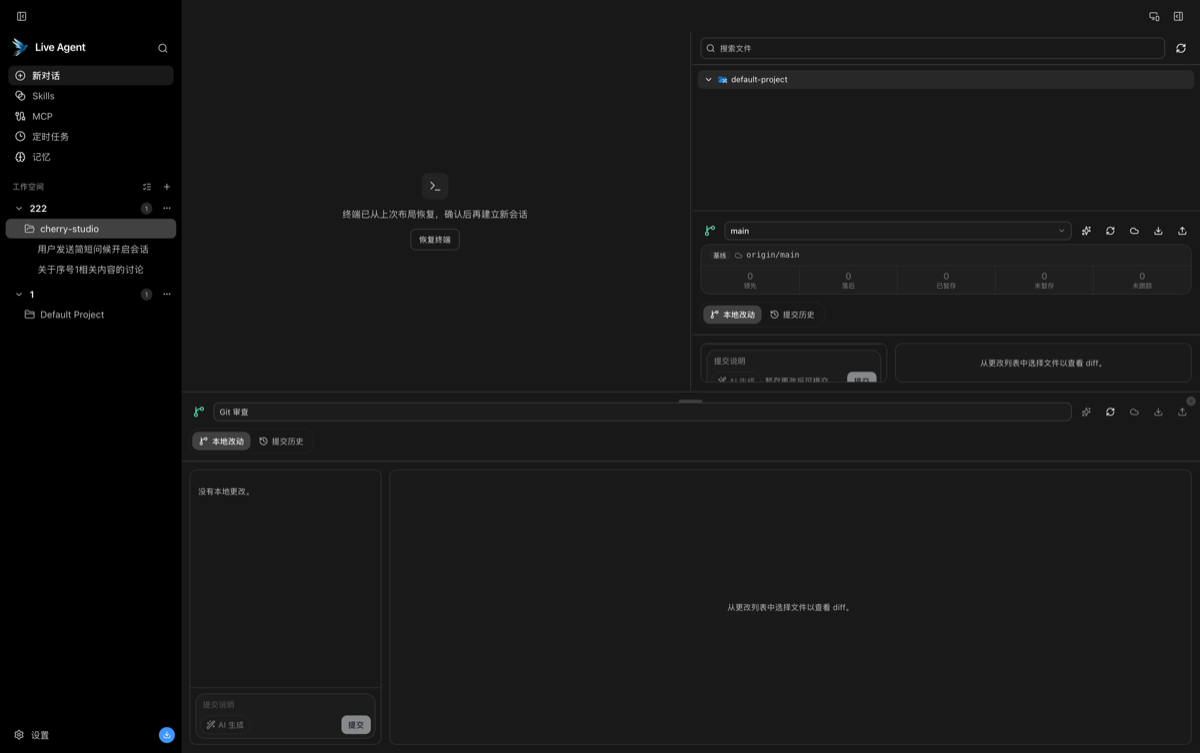
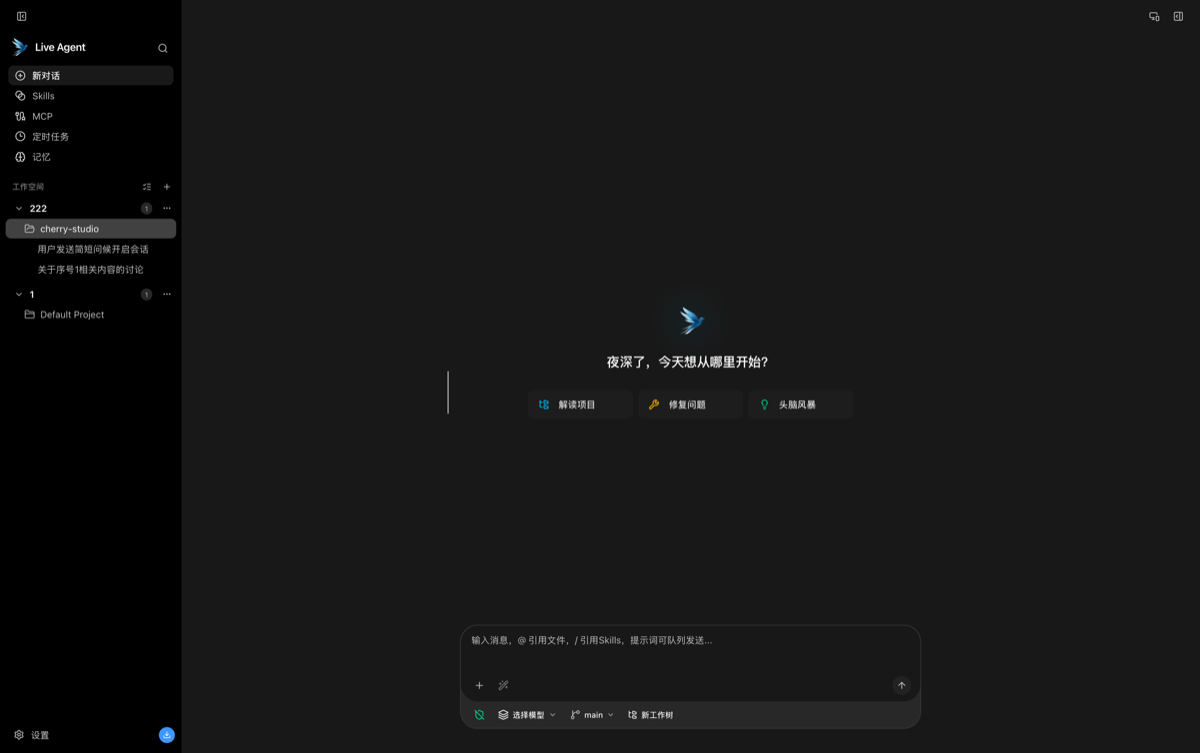
fix(gui): macOS 全屏下关闭先退出全屏再隐藏,侧栏开关不再避让隐藏的红绿灯 (#864)

diff --git a/crates/agent-gui/src/components/MacOsTitleBarSpacer.tsx b/crates/agent-gui/src/components/MacOsTitleBarSpacer.tsx
@@ -39,23 +39,28 @@ function isValidMetrics(
   );
 }
 
-/**
- * `undefined` = not read yet (or the read failed): callers use the fallback geometry.
- * `null` = AppKit reports no traffic lights in the main window — native fullscreen
- * moves them into a separate auto-hiding titlebar, so there is nothing to clear.
- */
-type TrafficLightState = MacOsTrafficLightMetrics | null | undefined;
+type TrafficLightState = {
+  /** Last geometry AppKit reported while the buttons sat in the main window. */
+  metrics: MacOsTrafficLightMetrics | null;
+  /**
+   * AppKit reports no traffic lights in the main window: native fullscreen moves
+   * them into a separate auto-hiding titlebar that slides over the content on hover.
+   */
+  hidden: boolean;
+};
+
+const INITIAL_TRAFFIC_LIGHT_STATE: TrafficLightState = { metrics: null, hidden: false };
 
 // Fullscreen enter/exit animates for ~0.5s and the last `resize` can fire before
 // AppKit has moved the buttons back, so re-read once the window settles.
 const TRAFFIC_LIGHT_SETTLE_DELAY_MS = 800;
 
 function useMacOsTrafficLightMetrics(enabled: boolean) {
-  const [metrics, setMetrics] = useState<TrafficLightState>(undefined);
+  const [state, setState] = useState<TrafficLightState>(INITIAL_TRAFFIC_LIGHT_STATE);
 
   useEffect(() => {
     if (!enabled) {
-      setMetrics(undefined);
+      setState(INITIAL_TRAFFIC_LIGHT_STATE);
       return undefined;
     }
 
@@ -68,16 +73,22 @@ function useMacOsTrafficLightMetrics(enabled: boolean) {
           "app_macos_traffic_light_metrics",
         );
         if (cancelled) return;
-        setMetrics(next === null ? null : isValidMetrics(next) ? next : undefined);
+        if (next === null) {
+          // Keep the last geometry: the buttons come back to the same spot on hover
+          // and after leaving fullscreen, so controls must keep clearing them.
+          setState((prev) => (prev.hidden ? prev : { ...prev, hidden: true }));
+        } else if (isValidMetrics(next)) {
+          setState({ metrics: next, hidden: false });
+        }
       } catch (error) {
         if (!cancelled) {
           console.warn("failed to read macOS traffic light metrics", error);
-          setMetrics(undefined);
+          setState((prev) => (prev.hidden ? { ...prev, hidden: false } : prev));
         }
       }
     };
 
-    const onResize = () => {
+    const scheduleRefresh = () => {
       void refresh();
       if (settleTimer !== undefined) clearTimeout(settleTimer);
       settleTimer = setTimeout(() => {
@@ -85,18 +96,27 @@ function useMacOsTrafficLightMetrics(enabled: boolean) {
         void refresh();
       }, TRAFFIC_LIGHT_SETTLE_DELAY_MS);
     };
+    // A window hidden right after leaving fullscreen may not get another `resize`
+    // before it is shown again, so also re-read when it regains focus/visibility.
+    const onVisibilityChange = () => {
+      if (document.visibilityState === "visible") scheduleRefresh();
+    };
 
     void refresh();
-    window.addEventListener("resize", onResize);
+    window.addEventListener("resize", scheduleRefresh);
+    window.addEventListener("focus", scheduleRefresh);
+    document.addEventListener("visibilitychange", onVisibilityChange);
 
     return () => {
       cancelled = true;
       if (settleTimer !== undefined) clearTimeout(settleTimer);
-      window.removeEventListener("resize", onResize);
+      window.removeEventListener("resize", scheduleRefresh);
+      window.removeEventListener("focus", scheduleRefresh);
+      document.removeEventListener("visibilitychange", onVisibilityChange);
     };
   }, [enabled]);
 
-  return metrics;
+  return state;
 }
 
 export function isMacOsTauri(): boolean {
@@ -122,10 +142,12 @@ export function MacOsTitleBarSpacer({ className }: { className?: string }) {
  */
 export function useMacOsAppHeaderHeight() {
   const enabled = isMacOsTauri();
-  const trafficLightMetrics = useMacOsTrafficLightMetrics(enabled);
+  const { metrics: trafficLightMetrics, hidden: trafficLightsHidden } =
+    useMacOsTrafficLightMetrics(enabled);
   useEffect(() => {
     if (!enabled) return;
-    if (trafficLightMetrics === null) {
+    // Fullscreen titlebar overlays the content on hover instead of sitting in it.
+    if (trafficLightsHidden) {
       document.documentElement.style.setProperty("--app-header-height", APP_HEADER_HEIGHT_FALLBACK);
       return;
     }
@@ -136,7 +158,7 @@ export function useMacOsAppHeaderHeight() {
     return () => {
       document.documentElement.style.setProperty("--app-header-height", APP_HEADER_HEIGHT_FALLBACK);
     };
-  }, [enabled, trafficLightMetrics]);
+  }, [enabled, trafficLightMetrics, trafficLightsHidden]);
 }
 
 /**
@@ -156,15 +178,16 @@ export function MacOsTitleBarToggle({
 }) {
   const { t } = useLocale();
   const [show] = useState(isMacOsTauri);
-  const trafficLightMetrics = useMacOsTrafficLightMetrics(show);
+  const { metrics: trafficLightMetrics, hidden: trafficLightsHidden } =
+    useMacOsTrafficLightMetrics(show);
   if (!show) return null;
   const trafficLightLeft = trafficLightMetrics?.left ?? MAC_OS_TRAFFIC_LIGHT_LEFT;
   const trafficLightWidth = trafficLightMetrics?.width ?? MAC_OS_TRAFFIC_LIGHT_GROUP_WIDTH;
-  // No traffic lights to clear (native fullscreen): sit where the group would start.
-  const toggleLeft =
-    trafficLightMetrics === null
-      ? MAC_OS_TRAFFIC_LIGHT_LEFT
-      : trafficLightLeft + trafficLightWidth + MAC_OS_TITLEBAR_TOGGLE_GAP;
+  // Native fullscreen hides the traffic lights (they only slide over the content
+  // on hover), so there is nothing to clear: sit where the group would start.
+  const toggleLeft = trafficLightsHidden
+    ? MAC_OS_TRAFFIC_LIGHT_LEFT
+    : trafficLightLeft + trafficLightWidth + MAC_OS_TITLEBAR_TOGGLE_GAP;
   return (
     <div
       className="flex shrink-0 items-center gap-0.5 [-webkit-app-region:no-drag]"

diff --git a/crates/agent-gui/src-tauri/src/lib.rs b/crates/agent-gui/src-tauri/src/lib.rs
@@ -11,6 +11,9 @@ use tauri::Manager;
 use tauri::WindowEvent;
 
 const MAIN_WINDOW_LABEL: &str = "main";
+/// 等待原生全屏退出完成的兜底时长;超时仍未收到通知就直接隐藏。
+#[cfg(target_os = "macos")]
+const FULLSCREEN_EXIT_HIDE_TIMEOUT: std::time::Duration = std::time::Duration::from_secs(3);
 // Only size + maximized are persisted: POSITION would fight multi-monitor
 // layouts we don't manage, VISIBLE would re-show a tray-hidden window on
 // startup, and DECORATIONS would override the per-platform window chrome
@@ -628,6 +631,79 @@ fn run_shortcut_action(app: &tauri::AppHandle, action: &str) {
     dispatch_app_action(app, action);
 }
 
+/// 关闭按钮默认隐藏到托盘。macOS 原生全屏下直接隐藏会在独立 Space 留下一块黑屏,
+/// 所以先退出全屏,等 AppKit 发出 `NSWindowDidExitFullScreenNotification` 再隐藏
+/// (见 [`install_fullscreen_exit_observer`])。
+fn hide_main_window_on_close(window: &tauri::Window, hide_after_fullscreen_exit: &Arc<AtomicBool>) {
+    #[cfg(target_os = "macos")]
+    if window.is_fullscreen().unwrap_or(false) {
+        if hide_after_fullscreen_exit.swap(true, Ordering::SeqCst) {
+            return;
+        }
+        if let Err(error) = window.set_fullscreen(false) {
+            eprintln!("failed to leave fullscreen before hiding LiveAgent window: {error}");
+            hide_after_fullscreen_exit.store(false, Ordering::SeqCst);
+        } else {
+            // 兜底:退出通知没到(过渡被打断等)时,也不能让关闭按钮失效。
+            let window = window.clone();
+            let pending = Arc::clone(hide_after_fullscreen_exit);
+            std::thread::spawn(move || {
+                std::thread::sleep(FULLSCREEN_EXIT_HIDE_TIMEOUT);
+                if pending.swap(false, Ordering::SeqCst) {
+                    let _ = window.hide();
+                }
+            });
+            return;
+        }
+    }
+    #[cfg(not(target_os = "macos"))]
+    let _ = hide_after_fullscreen_exit;
+
+    if let Err(error) = window.hide() {
+        eprintln!("failed to hide LiveAgent window on close: {error}");
+    }
+}
+
+/// tao 在 `set_fullscreen(false)` 调用后立刻清掉自身的全屏状态,NSWindow 的
+/// styleMask 也在过渡开始时就去掉 FullScreen 位;而 AppKit 在过渡结束、切回原
+/// Space 时会重新显示窗口,在那之前隐藏会被撤销。只有 didExit 通知代表真正结束。
+#[cfg(target_os = "macos")]
+fn install_fullscreen_exit_observer(
+    app: &tauri::App,
+    hide_after_fullscreen_exit: Arc<AtomicBool>,
+) -> tauri::Result<()> {
+    use objc2_app_kit::{NSWindow, NSWindowDidExitFullScreenNotification};
+    use objc2_foundation::{NSNotification, NSNotificationCenter};
+
+    let Some(window) = app.get_webview_window(MAIN_WINDOW_LABEL) else {
+        return Ok(());
+    };
+    let ns_window_ptr = window.ns_window()?;
+    if ns_window_ptr.is_null() {
+        return Ok(());
+    }
+    let ns_window: &NSWindow = unsafe { &*ns_window_ptr.cast::<NSWindow>() };
+
+    let block = block2::RcBlock::new(move |_: std::ptr::NonNull<NSNotification>| {
+        if hide_after_fullscreen_exit.swap(false, Ordering::SeqCst) {
+            if let Err(error) = window.hide() {
+                eprintln!("failed to hide LiveAgent window after leaving fullscreen: {error}");
+            }
+        }
+    });
+    let observer = unsafe {
+        NSNotificationCenter::defaultCenter().addObserverForName_object_queue_usingBlock(
+            Some(NSWindowDidExitFullScreenNotification),
+            Some(ns_window),
+            None,
+            &block,
+        )
+    };
+    // 主窗口与应用同生命周期,观察者无需注销。
+    std::mem::forget(observer);
+    Ok(())
+}
+
 fn request_app_exit(
     app: &tauri::AppHandle,
     allow_exit: &AtomicBool,
@@ -762,6 +838,7 @@ pub fn run() {
         &terminal_registry,
     )));
     let allow_exit = Arc::new(AtomicBool::new(false));
+    let hide_after_fullscreen_exit = Arc::new(AtomicBool::new(false));
     let close_window_behavior = Arc::new(commands::app::CloseWindowBehaviorState::new(
         commands::app::CLOSE_WINDOW_BEHAVIOR_MINIMIZE,
     ));
@@ -841,11 +918,15 @@ pub fn run() {
             let managed_process_registry = Arc::clone(&managed_process_registry);
             let git_clone_task_registry = Arc::clone(&git_clone_task_registry);
             let provider_usage_service = Arc::clone(&provider_usage_service);
+            #[cfg(target_os = "macos")]
+            let hide_after_fullscreen_exit = Arc::clone(&hide_after_fullscreen_exit);
             move |app| {
                 commands::history_db::initialize_history_db()?;
                 configure_system_tray(app)?;
                 #[cfg(target_os = "windows")]
                 configure_windows_window_chrome(app)?;
+                #[cfg(target_os = "macos")]
+                install_fullscreen_exit_observer(app, hide_after_fullscreen_exit)?;
                 if let Err(error) = commands::settings::initialize_system_proxy_from_db() {
                     eprintln!("failed to initialize system proxy state: {error}");
                 }
@@ -918,8 +999,8 @@ pub fn run() {
                     api.prevent_close();
                     if commands::app::is_close_window_exit(&close_window_behavior) {
                         request_app_exit(window.app_handle(), &allow_exit, &terminal_registry);
-                    } else if let Err(error) = window.hide() {
-                        eprintln!("failed to hide LiveAgent window on close: {error}");
+                    } else {
+                        hide_main_window_on_close(window, &hide_after_fullscreen_exit);
                     }
                 }
             }
